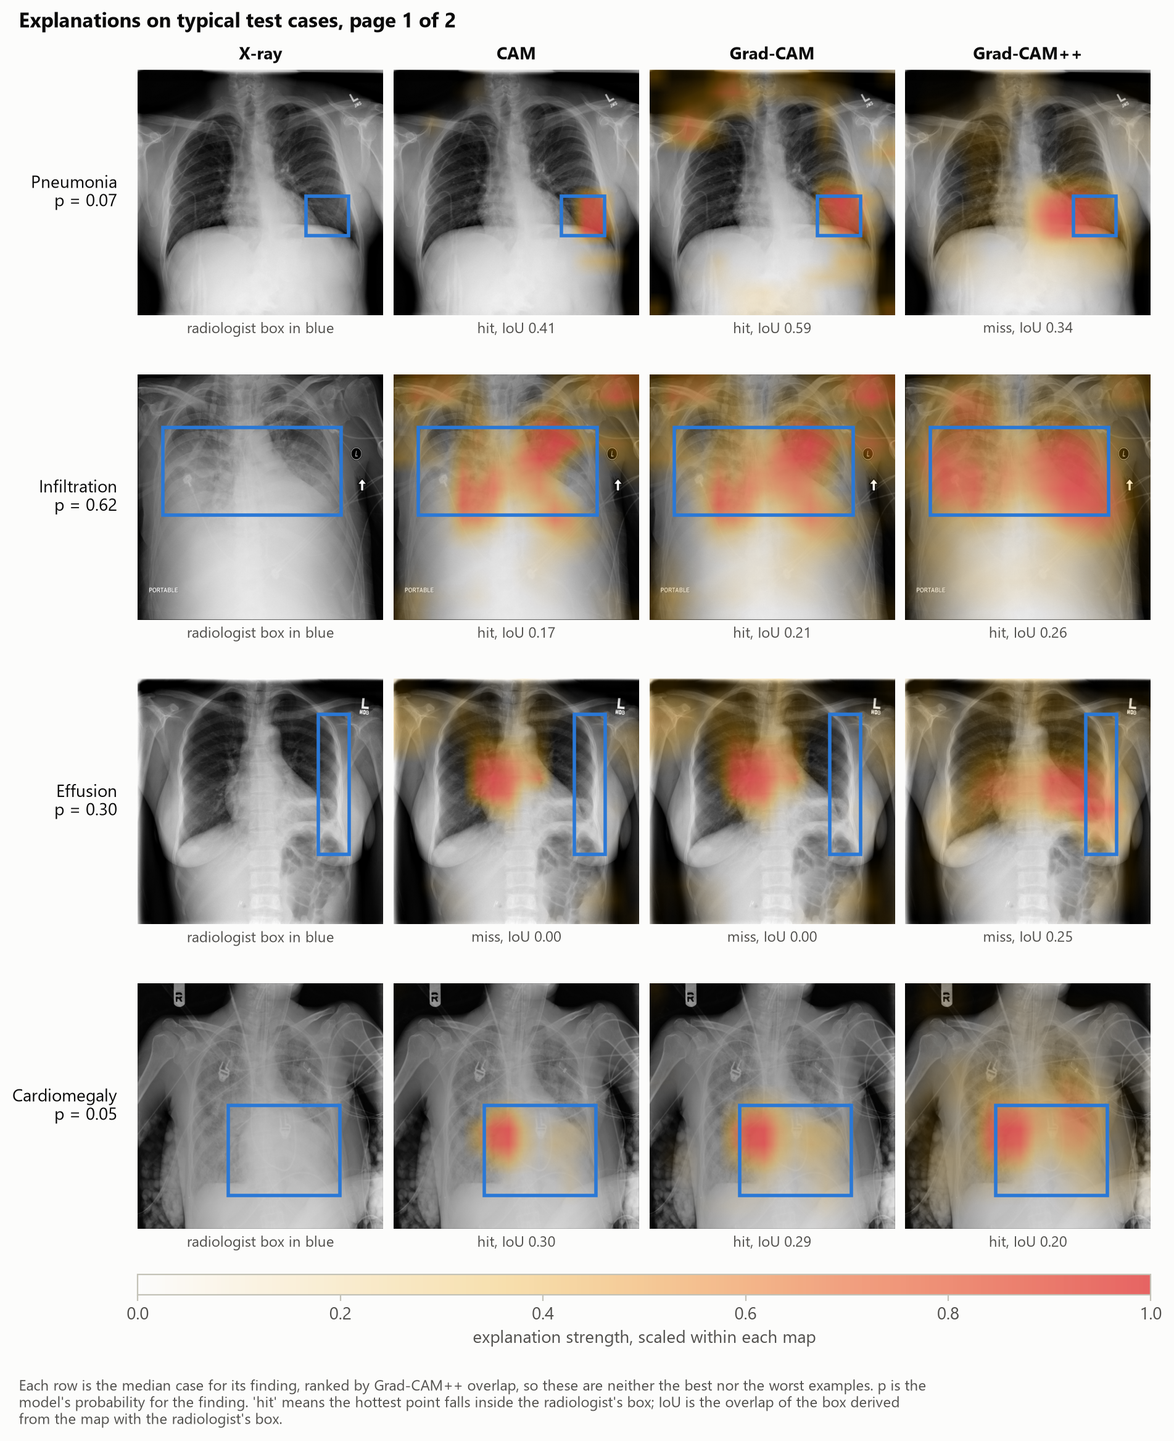
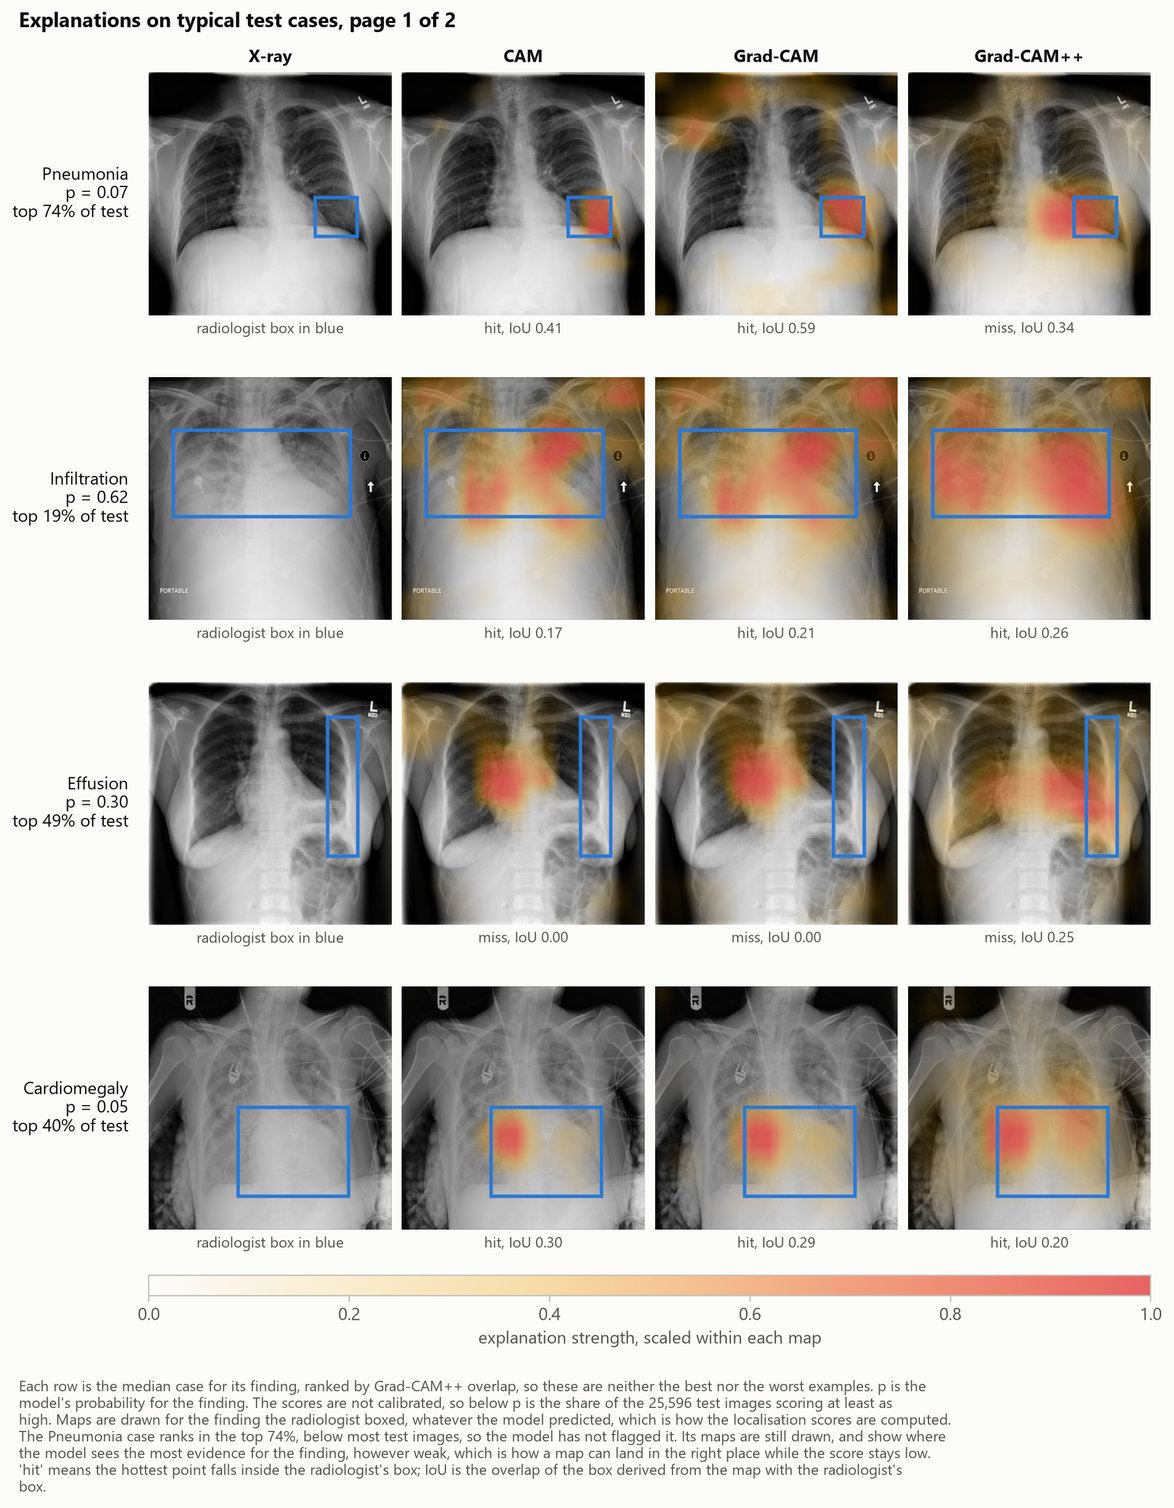
output

diff --git a/scripts/make_figures.py b/scripts/make_figures.py
@@ -226,10 +226,22 @@ def localisation_by_finding(xai: Path, out: Path) -> None:
     ax.set_title("How well the best localiser does, finding by finding", pad=26)
     ax.legend(loc="lower left", bbox_to_anchor=(0, 1.0), ncol=2, fontsize=8.5, borderaxespad=0.2)
     nodule = best.loc["Nodule"]
-    caption(fig, f"Nodules score {nodule['pointing_hit']:.2f} against {control.at['Nodule', 'pointing_hit']:.2f} "
-                 f"for a random map, and across all {counts['Nodule']} nodule cases no derived box overlaps the "
-                 f"radiologist's by half its own area (T(IoBB) at 0.5 is {nodule['iobb@0.5']:.2f}). Large findings "
-                 "that sit in the same place every time are easy; small ones are not.")
+    resolution = pd.read_csv(xai / "nodule_resolution.csv", index_col="method")
+    sizes = pd.read_csv(xai / "box_sizes.csv", index_col="finding")
+    weakest = best["pointing_hit"].drop("Nodule").idxmin()
+    cases = int(resolution.at["gradcam++", "n"])
+    reachable = int(resolution.at["gradcam++", "reachable_cases"])
+    reach = (f"could not be reached in any of the {cases} cases" if reachable == 0
+             else f"was within reach in only {reachable} of {cases} cases")
+    caption(fig, f"{weakest} is the clearest failure: its maps usually point somewhere else, for a pointing "
+                 f"score of {best.at[weakest, 'pointing_hit']:.2f}. Nodules score almost as low, "
+                 f"{nodule['pointing_hit']:.2f} against {control.at['Nodule', 'pointing_hit']:.2f} for a random "
+                 "map, but part of that is measurement. The median nodule box is "
+                 f"{sizes.at['Nodule', 'median_w']:.0f} by {sizes.at['Nodule', 'median_h']:.0f} px, about one cell "
+                 "of the 16 by 16 explanation grid, so the box drawn from a map is many times larger and T(IoBB) "
+                 f"at 0.5 {reach}, however well the map was placed. Counting instead whether that box contains "
+                 f"the nodule's centre, Grad-CAM++ manages {resolution.at['gradcam++', 'centre_inside']:.0%} "
+                 f"against {resolution.at['random', 'centre_inside']:.0%} for a random map.")
     save(fig, out, "5_localisation_by_finding.png")
 
 
@@ -253,8 +265,13 @@ def roc_grid(run: Path, data: Path, out: Path) -> None:
         ax.set_aspect("equal")
         ax.set_xticks([0, 0.5, 1])
         ax.set_yticks([0, 0.5, 1])
-    for ax in flat[len(order):]:
-        ax.set_visible(False)
+    for index in range(len(order), len(flat)):
+        flat[index].set_visible(False)
+        # Shared x axes only label the bottom row, so a panel sitting above an
+        # empty slot would otherwise have no scale under it at all.
+        above = index - cols
+        if 0 <= above < len(order):
+            flat[above].tick_params(labelbottom=True)
     fig.supxlabel("false positive rate", color=INK_2)
     fig.supylabel("true positive rate", color=INK_2)
     fig.suptitle(f"ROC curves on the official test split ({len(merged):,} images), ordered by AUROC",
@@ -297,13 +314,25 @@ def boxes_for(boxes: pd.DataFrame, name: str, finding: str) -> list[tuple]:
     return [(r.x, r.y, r.w, r.h) for r in hits.itertuples()]
 
 
+def score_label(scores: pd.DataFrame, name: str, finding: str) -> str:
+    """The evaluated probability, plus the share of test images scoring at least as high.
+
+    The scores are not calibrated, so a raw probability misleads on its own: a case
+    at 0.05 can still rank near the top for a finding whose negatives mostly score
+    below that.
+    """
+    p = float(scores.at[name, finding])
+    top = float((scores[finding] >= p).mean())
+    return f"p = {p:.2f}\ntop {top:.0%} of test"
+
+
 def heat_scale(fig, axes) -> None:
     fig.colorbar(ScalarMappable(norm=Normalize(0, 1), cmap=HEAT), ax=axes, orientation="horizontal",
                  fraction=0.025, pad=0.02, aspect=50,
                  label="explanation strength, scaled within each map")
 
 
-def gallery_typical(model, xai: Path, data: Path, images: Path, out: Path, device) -> None:
+def gallery_typical(model, scores: pd.DataFrame, xai: Path, data: Path, images: Path, out: Path, device) -> None:
     detail = pd.read_csv(xai / "xai_per_image.csv")
     boxes = load_boxes(data)
     transform = build_transforms(512, train=False)
@@ -318,6 +347,7 @@ def gallery_typical(model, xai: Path, data: Path, images: Path, out: Path, devic
     pages = math.ceil(len(cases) / 4)
     for page in range(pages):
         chunk = cases[page * 4 : page * 4 + 4]
+        ranks: list[tuple[str, float]] = []
         fig, axes = plt.subplots(len(chunk), 4, figsize=(9.4, 2.5 * len(chunk) + 0.9),
                                  squeeze=False, layout="constrained")
         for r, (finding, name) in enumerate(chunk):
@@ -325,12 +355,11 @@ def gallery_typical(model, xai: Path, data: Path, images: Path, out: Path, devic
             pil = Image.open(images / name).convert("L")
             image = np.asarray(pil)
             x = transform(pil).unsqueeze(0).to(device)
-            with torch.no_grad():
-                prob = float(torch.sigmoid(model(x))[0, class_index])
             truth = boxes_for(boxes, name, finding)
+            ranks.append((finding, float((scores[finding] >= scores.at[name, finding]).mean())))
 
             draw_case(axes[r, 0], image, None, truth)
-            axes[r, 0].set_ylabel(f"{finding.replace('_', ' ')}\np = {prob:.2f}", rotation=0, ha="right",
+            axes[r, 0].set_ylabel(f"{finding.replace('_', ' ')}\n{score_label(scores, name, finding)}", rotation=0, ha="right",
                                   va="center", labelpad=12, color=INK, fontsize=10)
             axes[r, 0].set_xlabel("radiologist box in blue", color=INK_2, fontsize=8.5)
             for c, method in enumerate(columns, start=1):
@@ -344,9 +373,22 @@ def gallery_typical(model, xai: Path, data: Path, images: Path, out: Path, devic
         heat_scale(fig, axes)
         fig.suptitle(f"Explanations on typical test cases, page {page + 1} of {pages}", x=0.01, ha="left",
                      fontsize=12, fontweight="bold")
+        weakest, weakest_top = max(ranks, key=lambda item: item[1])
+        # Only say a case went unflagged when one on this page actually did.
+        unflagged = (
+            f"The {weakest.replace('_', ' ')} case ranks in the top {weakest_top:.0%}, below most test "
+            "images, so the model has not flagged it. Its maps are still drawn, and show where the model "
+            "sees the most evidence for the finding, however weak, which is how a map can land in the "
+            "right place while the score stays low. "
+            if weakest_top > 0.5 else ""
+        )
         caption(fig, "Each row is the median case for its finding, ranked by Grad-CAM++ overlap, so these are "
                      "neither the best nor the worst examples. p is the model's probability for the finding. "
-                     "'hit' means the hottest point falls inside the radiologist's box; IoU is the overlap "
+                     f"The scores are not calibrated, so below p is the share of the {len(scores):,} test "
+                     "images scoring at least as high. Maps are drawn for the finding the radiologist boxed, "
+                     "whatever the model predicted, which is how the localisation scores are computed. "
+                     + unflagged
+                     + "'hit' means the hottest point falls inside the radiologist's box; IoU is the overlap "
                      "of the box derived from the map with the radiologist's box.")
         save(fig, out, f"7_gallery_typical_{page + 1}.png")
 
@@ -379,8 +421,10 @@ def gallery_range(model, xai: Path, data: Path, images: Path, out: Path, device)
     heat_scale(fig, axes)
     fig.suptitle("Best, median and worst case for Grad-CAM++", x=0.01, ha="left",
                  fontsize=12, fontweight="bold")
-    caption(fig, "Ranked by overlap with the radiologist's box. The spread within a finding shows how much a "
-                 "single hand picked example can mislead in either direction.")
+    caption(fig, "Ranked by overlap with the radiologist's box. A nodule box is about one cell of the 16 by 16 "
+                 "explanation grid, so overlap cannot credit a map that lands on a nodule: the median nodule case "
+                 "here peaks within one grid cell of it and still scores as a miss. The best nodule case by "
+                 "overlap is a diffuse map that happens to cover the box, the same weakness from the other side.")
     save(fig, out, "8_gallery_range.png")
 
 
@@ -404,7 +448,8 @@ def main() -> int:
 
     device = torch.device("cuda" if torch.cuda.is_available() else "cpu")
     model = load_model(args.run, device)
-    gallery_typical(model, args.xai, args.data, args.images, args.out, device)
+    scores = pd.read_csv(args.run / "test_predictions.csv").set_index(IMAGE_COL)
+    gallery_typical(model, scores, args.xai, args.data, args.images, args.out, device)
     gallery_range(model, args.xai, args.data, args.images, args.out, device)
     return 0
 

diff --git a/scripts/check_nodule_resolution.py b/scripts/check_nodule_resolution.py
@@ -1,0 +1,129 @@
+"""Check how far box-overlap scores can measure nodule localisation at all.
+
+A nodule's box is about one cell of the 16 by 16 explanation grid, so the box
+drawn from any map is many times larger than the nodule, and IoU and T(IoBB)
+are capped however well the map is placed. Scoring nodules by overlap therefore
+mixes two things: whether the explanation is wrong, and whether the measure can
+see it being right.
+
+Writes two tables to runs/xai/:
+
+* box_sizes.csv, radiologist box sizes by finding against one grid cell
+* nodule_resolution.csv, for each method on every nodule case: how much larger
+  the derived box is than the nodule, how many cases could reach T(IoBB) 0.5 by
+  any placement, and how often the derived box at least contains the nodule's
+  centre. The random map is the baseline for that last number, since a box of
+  the same size dropped at random also contains the centre some of the time.
+
+Usage:
+    python scripts/check_nodule_resolution.py
+"""
+
+from __future__ import annotations
+
+import argparse
+import sys
+import time
+from pathlib import Path
+
+import numpy as np
+import pandas as pd
+import torch
+from PIL import Image
+
+from arc.data import IMAGE_COL, LABELS, build_transforms, load_boxes
+from arc.model import DenseNet121Classifier
+from arc.xai import builtin_cam, cam_explain
+from arc.xai_metrics import iobb, map_to_box
+
+#: Boxes are in 1024 px space; DenseNet-121 at 512 px input gives a 16 by 16 grid.
+GRID_CELL = 1024 // 16
+METHODS = ("cam", "gradcam", "gradcam++", "eigencam", "random")
+
+
+def log(msg: str) -> None:
+    print(time.strftime("%H:%M:%S"), msg, flush=True)
+
+
+def main() -> int:
+    parser = argparse.ArgumentParser(description="Measure the box-overlap ceiling for nodules.")
+    parser.add_argument("--checkpoint", type=Path, default=Path("runs/densenet121_512/best.pt"))
+    parser.add_argument("--data", type=Path, default=Path("data/raw/nih"))
+    parser.add_argument("--images", type=Path, default=Path("data/processed/nih512"))
+    parser.add_argument("--out", type=Path, default=Path("runs/xai"))
+    parser.add_argument("--seed", type=int, default=1337)
+    args = parser.parse_args()
+    args.out.mkdir(parents=True, exist_ok=True)
+
+    boxes = load_boxes(args.data)
+    sized = boxes.assign(
+        area=boxes["w"] * boxes["h"],
+        under_one_cell=(boxes["w"] < GRID_CELL) & (boxes["h"] < GRID_CELL),
+    )
+    sizes = (
+        sized.groupby("label")
+        .agg(n=("area", "size"), median_w=("w", "median"), median_h=("h", "median"),
+             median_area=("area", "median"), under_one_cell=("under_one_cell", "mean"))
+        .rename_axis("finding")
+        .sort_values("median_area")
+        .round(3)
+    )
+    sizes.to_csv(args.out / "box_sizes.csv")
+    log(f"box sizes by finding, one grid cell is {GRID_CELL} by {GRID_CELL} px:\n{sizes.to_string()}")
+
+    device = torch.device("cuda" if torch.cuda.is_available() else "cpu")
+    model = DenseNet121Classifier(len(LABELS), pretrained=False)
+    model.load_state_dict(torch.load(args.checkpoint, map_location=device)["model"])
+    model = model.to(device).eval()
+    transform = build_transforms(512, train=False)
+    nodule = LABELS.index("Nodule")
+    cases = boxes[boxes["label"] == "Nodule"]
+
+    rows = []
+    for method in METHODS:
+        # RandomCAM draws its weights from numpy's global generator, so seed it
+        # for every method to keep the baseline the same from run to run.
+        np.random.seed(args.seed)
+        torch.manual_seed(args.seed)
+        started = time.perf_counter()
+        stats = []
+        for _, case in cases.iterrows():
+            image = Image.open(args.images / case[IMAGE_COL]).convert("L")
+            x = transform(image).unsqueeze(0).to(device)
+            if method == "cam":
+                raw = builtin_cam(model, x, nodule)[0]
+            else:
+                raw = cam_explain(model, x, nodule, method)[0]
+            truth = (float(case["x"]), float(case["y"]), float(case["w"]), float(case["h"]))
+            derived = map_to_box(raw)
+            if derived is None:
+                stats.append({"ratio": np.nan, "ceiling": 0.0, "centre_inside": False, "iobb": 0.0})
+                continue
+            area, derived_area = truth[2] * truth[3], derived[2] * derived[3]
+            cx, cy = truth[0] + truth[2] / 2, truth[1] + truth[3] / 2
+            stats.append({
+                "ratio": derived_area / area,
+                "ceiling": min(1.0, area / derived_area),
+                "centre_inside": (derived[0] <= cx <= derived[0] + derived[2])
+                and (derived[1] <= cy <= derived[1] + derived[3]),
+                "iobb": iobb(derived, truth),
+            })
+        df = pd.DataFrame(stats)
+        rows.append({
+            "method": method,
+            "n": len(df),
+            "median_area_ratio": round(float(df["ratio"].median()), 2),
+            "reachable_cases": int((df["ceiling"] >= 0.5).sum()),
+            "centre_inside": round(float(df["centre_inside"].mean()), 4),
+            "iobb_at_0_5_cases": int((df["iobb"] >= 0.5).sum()),
+        })
+        log(f"{method}: {len(df)} nodule cases in {time.perf_counter() - started:.0f}s")
+
+    table = pd.DataFrame(rows).set_index("method")
+    table.to_csv(args.out / "nodule_resolution.csv")
+    log(f"nodule measurement ceiling:\n{table.to_string()}")
+    return 0
+
+
+if __name__ == "__main__":
+    sys.exit(main())

diff --git a/README.md b/README.md
@@ -31,9 +31,9 @@ Our first plan used VinDr-CXR, which has cleaner labels and many more boxes. We 
 
 ## Model
 
-DenseNet-121 pretrained on ImageNet, with 14 sigmoid outputs, one per disease. CheXNet used this architecture, and it's the most common baseline on this dataset, so our numbers will be easy to place.
+DenseNet-121 pretrained on ImageNet, with 14 sigmoid outputs, one per disease. CheXNet used this architecture, and it's the most common baseline on this dataset, so the numbers are easy to place.
 
-One change from CheXNet: we train on 512×512 images instead of 224×224. The explanation maps come from the last convolutional layer, which is a 7×7 grid at 224 and a 16×16 grid at 512. A 7×7 grid is too coarse to point at a nodule. The larger size costs about five times the compute per image, and our GPU (RTX 5070 Ti, 16 GB) can handle it.
+One change from CheXNet: we train on 512×512 images instead of 224×224. The explanation maps come from the last convolutional layer, which is a 7×7 grid at 224 and a 16×16 grid at 512. A 7×7 grid is too coarse to point at a nodule, and the results show that even 16×16 is too coarse for box-overlap scores to judge nodules fairly. The larger size costs about five times the compute per image, and our GPU (RTX 5070 Ti, 16 GB) can handle it.
 
 Class imbalance is handled with a weighted loss. Hernia, for example, appears in well under 1% of images.
 
@@ -101,6 +101,8 @@ Mean AUROC 0.8158, mean AUPRC 0.2878. Per-class figures with 95% bootstrap inter
 
 Pneumonia scores 0.711 by AUROC and 0.048 by AUPRC. At that prevalence the model is close to useless for it in practice, and a table carrying only AUROC would hide the fact entirely.
 
+The probabilities themselves are not calibrated. Across the eight findings that have boxes, the median true positive scores between 0.24 (Pneumonia) and 0.67 (Pneumothorax), so 0.5 is not a meaningful cut-off, and anyone using the model would need a threshold chosen per finding. Ranking is what it does well: for each finding, the median boxed test case sits between the 75th and 97th percentile of all test images, though individual cases vary widely.
+
 ### Do the explanations point where the radiologists did
 
 Scored over the 984 image and finding pairs that carry hand-drawn boxes. All of them fall in the test split, so no box was seen during training.
@@ -122,7 +124,13 @@ The spread between findings is far wider than the spread between methods:
 | Cardiomegaly | 0.870 | 0.815 | 0.349 |
 | Nodule | 0.203 | 0.000 | 0.114 |
 
-Nodules are the clear failure. Across all 79 boxed nodule cases, no method ever produced a box overlapping the radiologist's by half its own area. Cardiomegaly, which is large and sits in the same place every time, is localised well by everything. That reproduces Arun et al. (2021) on a dataset they did not use: saliency handles big stereotyped findings and fails on small ones.
+Cardiomegaly, which is large and sits in the same place every time, is localised well by everything. Pneumothorax is the clearest failure. With Grad-CAM++, the best localiser overall, its pointing score is 0.22, the lowest of any finding for that method: most of its maps point somewhere other than the radiologist's box.
+
+Nodules score almost as low, but for them the scores are the problem. The median nodule box is 70 by 68 pixels, about one cell of the 16 by 16 grid the explanations are computed on, while the next smallest finding, masses, has boxes three times that area. A box drawn from any map ends up around twelve times the size of the nodule, which caps IoU and T(IoBB) however well the map is placed. For all four methods, in every one of the 79 nodule cases, no placement of that box could have reached T(IoBB) 0.5, so the zero in that column says nothing about the explanations.
+
+So we added a check the grid can answer: does the box drawn from the map contain the nodule's centre? It does in 61% of cases for Grad-CAM++, 59% for CAM and 57% for Grad-CAM, against 13% for a random map. EigenCAM, which ignores which finding it is explaining, manages 37%. The explanations find nodules far more often than chance, and the standard box scores cannot show it at this resolution. The numbers are in `runs/xai/nodule_resolution.csv`.
+
+At the strictest threshold, Wang et al.'s own localisation table for this dataset has the same extremes, cardiomegaly highest and nodules lowest, and the same caveat may apply to it.
 
 ### Are the explanations faithful to the model
 
@@ -142,7 +150,7 @@ Randomise the network from the output backwards and watch whether the map moves.
 
 | method | mean absolute correlation |
 |---|---|
-| CAM | 0.010 |
+| CAM | 0.009 |
 | Grad-CAM | 0.052 |
 | EigenCAM | 0.152 |
 | Grad-CAM++ | 0.199 |
@@ -176,6 +184,8 @@ The labels are text-mined and some are wrong. We can't fix that, only state it.
 
 Explanation scores exist only for the 8 classes that have boxes.
 
+The explanation maps are 16 by 16, coarser than a nodule, so box-overlap scores cannot judge localisation for findings that small. The nodule results use a containment check instead, which we defined for this purpose and which has not been validated anywhere else.
+
 All the data is from one hospital, so we have no evidence yet that the model works elsewhere. Zech et al. (2018) showed that chest X-ray models can lose a lot of accuracy at a new hospital.
 
 A heatmap shows where the model looked. It doesn't show whether the model reasoned the way a radiologist would. None of this is clinical validation, and the system isn't meant for diagnosis.
@@ -183,6 +193,7 @@ A heatmap shows where the model looked. It doesn't show whether the model reason
 ## Later, after the first results
 
 - Evaluating Score-CAM, Integrated Gradients and occlusion, which are written but not yet scored
+- Calibrating the probabilities on the validation set, for example with temperature scaling, and choosing a threshold for each finding
 - Explanations built into the model itself, either with an attention-pooling head or with a prototype network that says "this region looks like these training cases"
 - A test set from a second hospital, such as VinDr-CXR or CheXlocalize
 - A newer backbone such as ConvNeXt, and higher resolution
@@ -204,8 +215,36 @@ Written and tested (40 tests passing), and run end to end:
 - the DenseNet-121 model, whose class activation maps add up exactly to its predictions
 - seven explanation methods in code, four of them evaluated, and the scoring that grades them against the boxes
 - scripts that download, preprocess, train, and produce the three results tables: classification scores, localisation against the boxes, and faithfulness alongside the sanity check
+- a script that draws the review figures, a check on how far box scores can judge nodules at this resolution, and a tool that runs the model on a single X-ray and saves its explanation
 
-Measured on this machine rather than estimated: training at batch size 32 on 512 px images uses about 11 GB of the GPU's 16 GB and runs at 165 images per second, which is roughly 8.5 minutes per epoch. At most 12 epochs with early stopping puts a full run under two hours. The data download is still going, and training starts once all 112,120 images are on disk.
+Measured on this machine: training at batch size 32 on 512 px images used about 12 GB of the GPU's 16 GB. The first epoch took 10.4 minutes while cuDNN tuned its kernels and the rest about 7.5 each, and early stopping ended the run after 7 epochs, about 55 minutes in all. Training saves a resumable checkpoint after every epoch. That was added after three power cuts during the data download, and was tested by interrupting a run on purpose.
+
+## Reproducing the results
+
+Everything runs from the project root. The environment is defined in `pyproject.toml`, and `uv` builds it with the PyTorch build this GPU needs.
+
+```bash
+uv sync --extra dev
+uv run python scripts/download_nih.py
+uv run python scripts/preprocess_nih.py
+uv run python scripts/train.py
+uv run python scripts/evaluate.py --run runs/densenet121_512
+uv run python scripts/evaluate_xai.py --checkpoint runs/densenet121_512/best.pt
+uv run python scripts/evaluate_faithfulness.py --checkpoint runs/densenet121_512/best.pt --randomisation-samples 8
+uv run python scripts/check_nodule_resolution.py
+uv run python scripts/make_figures.py
+```
+
+The download is 45 GB and took about nine hours on a 1.4 MB/s connection; it picks up where it stopped if interrupted. Preprocessing takes about five minutes, training about an hour, and the evaluations another half hour.
+
+To run the model on one X-ray and see its explanation:
+
+```bash
+uv run python scripts/predict.py data/processed/nih512/00021181_002.png
+uv run python scripts/predict.py data/processed/nih512/00025662_006.png --finding Nodule --method gradcam++
+```
+
+It prints all 14 findings ranked by probability and saves a picture to `runs/predictions/`, with the radiologist's box drawn when the image has one. It warns if the image was used in training.
 
 ## References
 
